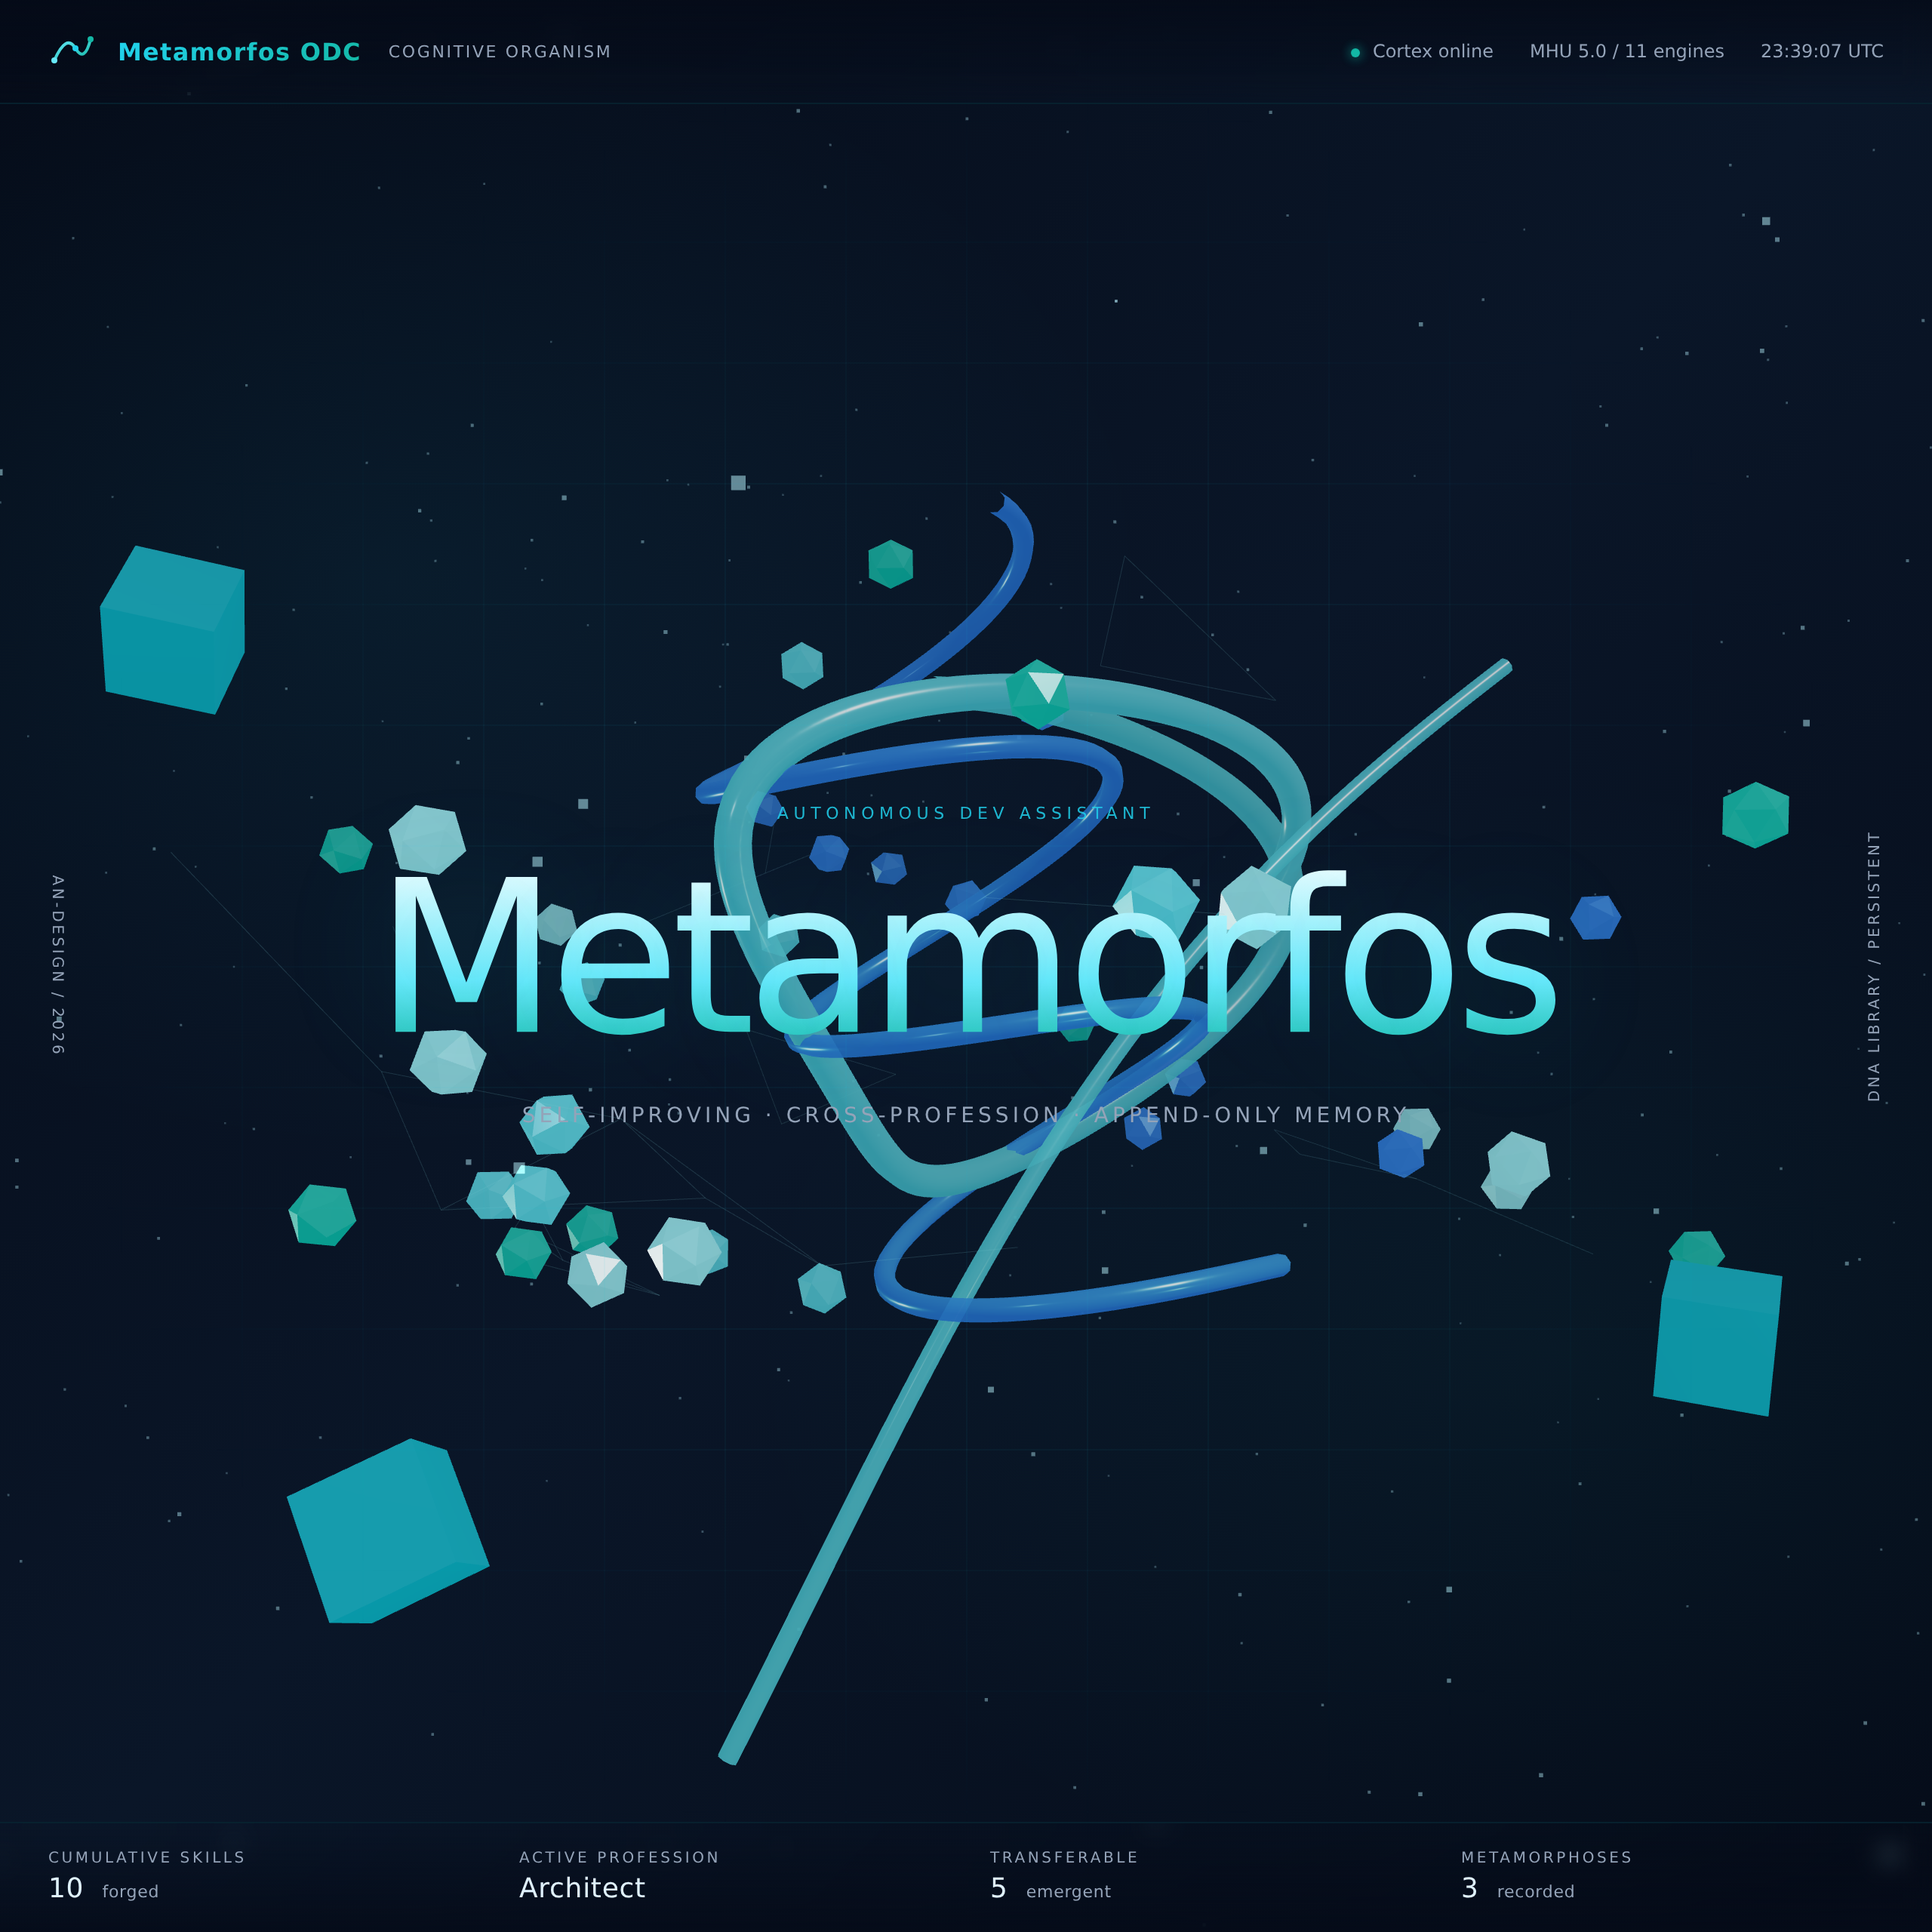
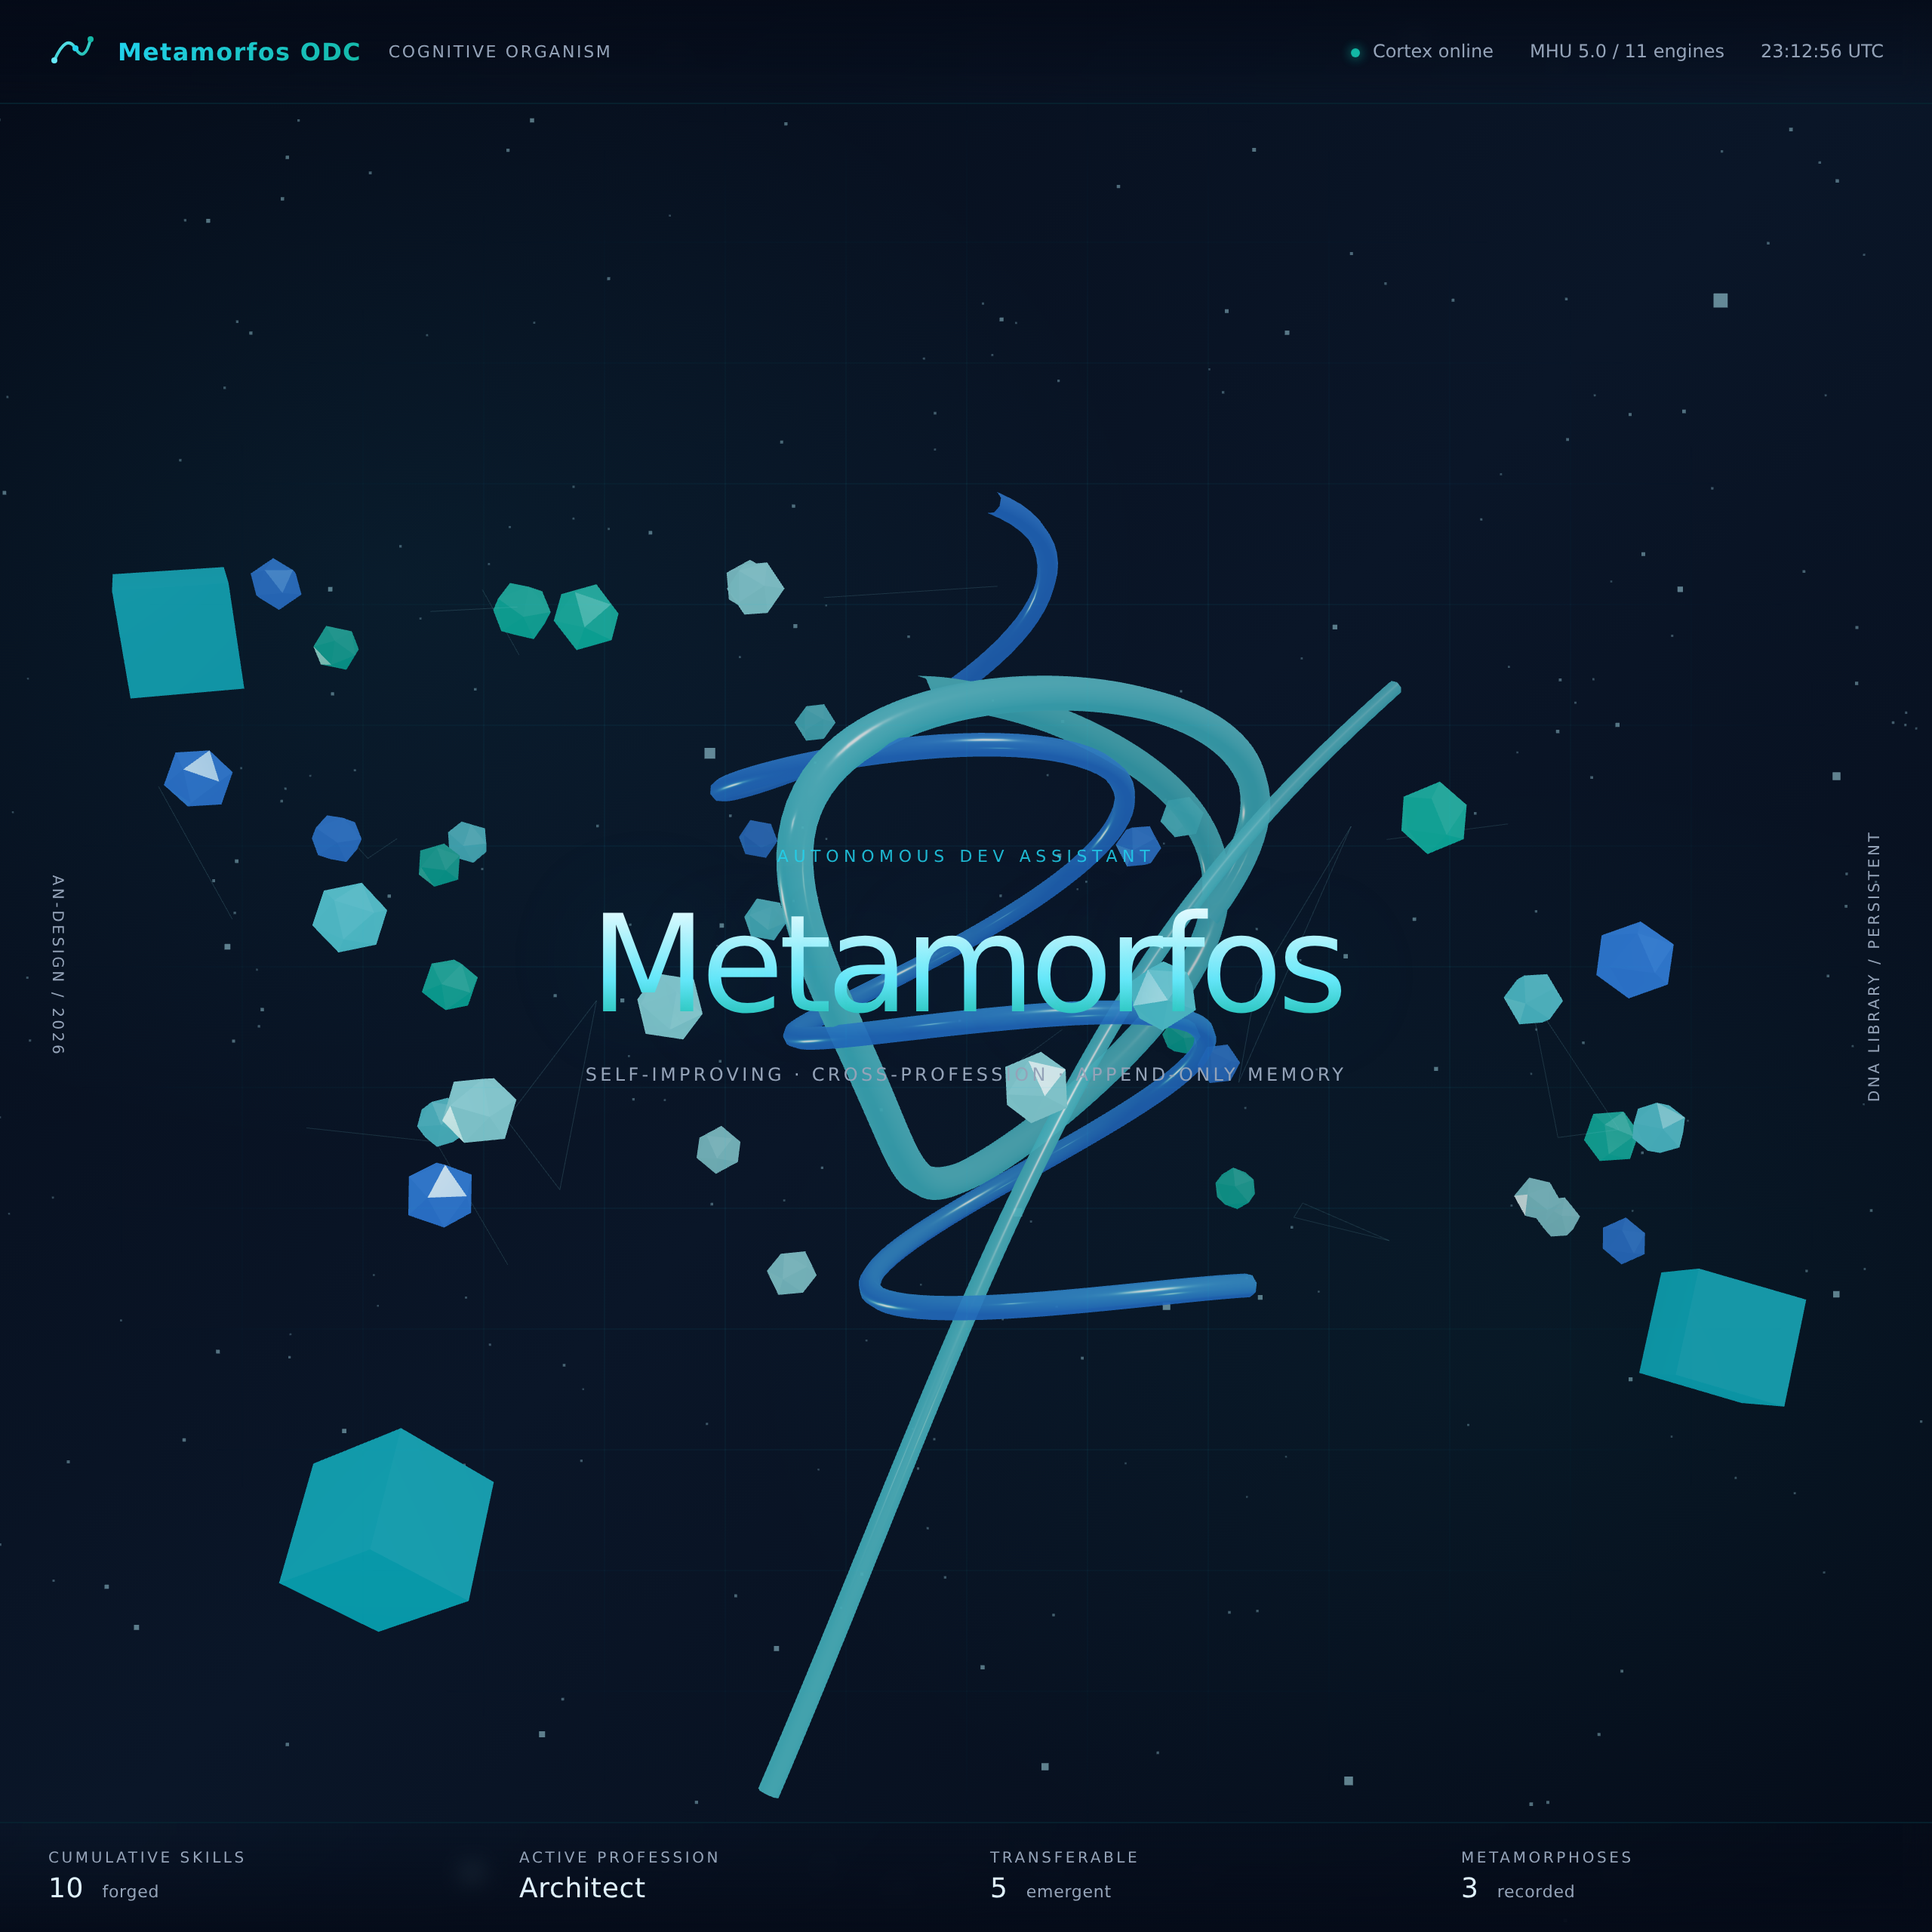
ui: tighten dashboard typography so the title fits the canvas
- hero-title font-size from clamp(56,11vw,168) to clamp(40,7vw,110)
- white-space: nowrap so it can't wrap mid-word
- hero-sub margins tightened
- hero positioned via translate(-50%, -50%) instead of stretching full width
- screenshot re-rendered (2560x2560, 2.3MB)

diff --git a/packages/metamorfus-src/public/dashboard.html b/packages/metamorfus-src/public/dashboard.html
@@ -132,10 +132,9 @@
   /* Center hero */
   .hero {
     position: fixed;
-    left: 0;
-    right: 0;
+    left: 50%;
     top: 50%;
-    transform: translateY(-50%);
+    transform: translate(-50%, -50%);
     z-index: 5;
     text-align: center;
     pointer-events: none;
@@ -152,7 +151,7 @@
   }
 
   .hero-title {
-    font-size: clamp(56px, 11vw, 168px);
+    font-size: clamp(40px, 7vw, 110px);
     font-weight: 200;
     line-height: 0.95;
     letter-spacing: -0.04em;
@@ -162,13 +161,14 @@
     background-clip: text;
     color: transparent;
     text-shadow: 0 0 80px rgba(34, 211, 238, 0.15);
+    white-space: nowrap;
   }
 
   .hero-sub {
-    font-size: 14px;
+    font-size: 12px;
     font-weight: 300;
     color: var(--text-muted);
-    margin-top: 28px;
+    margin-top: 22px;
     letter-spacing: 0.18em;
     text-transform: uppercase;
   }
